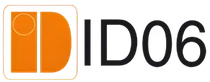
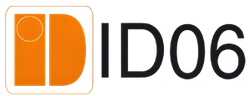
v7.2 — komplett arbete-rad, centrerad finstilt, centrerade ikoner, skarpa logotyper
1. Kvittots grundrad tillbaka med en GENERISK etikett: "Komplett arbete".
   Den var tidigare jobbets egen beskrivning ("Byte av elcentral"), som
   varierar per offert och därför är svår att mappa i CRM:et. Nu är den samma
   post för varje offert, bara beloppet byts, och "Installationstid: Express"
   blir post 2. Uppmätt: rad 1 11 900 kr, rad 2 +1 000 kr, total 12 900 kr.

2. Logotyperna exporterade om från originalkällorna i rätt upplösning:
   Elsäkerhetsverket och ID06 vid 3x renderad höjd (162x144 resp 250x96),
   Trygg-Hansa vid källans maximum 295x56 (2,3x) plus en lätt oskarp mask.
   Uppmätt täthet: 3,0x / 3,0x / 2,3x mot tidigare 1,0x för Trygg-Hansa.
   [GAP] Trygg-Hansa: källan har bara 56 px bläckhöjd och ampy.se levererar
   exakt samma fil, så 2,3x är taket utan en vektor från deras varumärkesportal.

3. Ikonerna i serviceavtalets kort centreras nu i kortets fulla höjd.
   grid-row: 1 / -1 fungerade inte: -1 löses mot det EXPLICITA rutnätet och
   .ig-item saknar grid-template-rows, så -1 blev linje 1 och ikonen
   centrerades bara i rubrikens rad (uppmätt 22-47 px för högt). span 3 löser
   det; uppmätt avvikelse nu 0,0 px vid 360, 390, 768 och 1440.

4. Finstilten i serviceavtalet är CENTRERAD. Den var vänsterställd, blev
   högerställd på ett tidigare direktiv, och ska vara central.

5. "Båda priserna är efter ROT" borttagen. Prispartkortet 139 -> 121 px.

61/61 kontroller, 0 horisontellt överflöde 320-1440.
[…]

diff --git a/r2-checkouten/index.html b/r2-checkouten/index.html
@@ -320,9 +320,9 @@
           <p class="c-eyebrow">Registrerade, försäkrade och kontrollerbara</p>
           <div class="c-row">
             <img class="logo-if" src="../assets/installatorsforetagen.svg" width="719" height="188" loading="lazy" decoding="async" alt="Installatörsföretagen">
-            <img class="logo-els" src="../assets/elsakerhetsverket.webp" width="122" height="109" loading="lazy" decoding="async" alt="Elsäkerhetsverket">
-            <img class="logo-id06" src="../assets/id06.webp" width="210" height="82" loading="lazy" decoding="async" alt="ID06">
-            <img class="logo-th" src="../assets/trygg-hansa.webp" width="106" height="24" loading="lazy" decoding="async" alt="Trygg-Hansa">
+            <img class="logo-els" src="../assets/elsakerhetsverket.webp" width="162" height="144" loading="lazy" decoding="async" alt="Elsäkerhetsverket">
+            <img class="logo-id06" src="../assets/id06.webp" width="250" height="96" loading="lazy" decoding="async" alt="ID06">
+            <img class="logo-th" src="../assets/trygg-hansa.webp" width="295" height="56" loading="lazy" decoding="async" alt="Trygg-Hansa">
           </div>
         </div>
       </section>
@@ -380,8 +380,7 @@
                 <span class="ig-f ig-f--med"><span class="ig-fl">Med avtal</span><span class="ig-fv">750 kr/tim</span></span>
                 <span class="ig-f ig-f--utan"><span class="ig-fl">Utan avtal</span><span class="ig-fv">850 kr/tim</span></span>
               </span>
-              <span class="ig-note">Båda priserna är efter ROT.</span>
-            </li>
+                    </li>
           </ul>
         </div>
 
@@ -428,9 +427,15 @@
     <section class="co-panel of-receipt" id="summering" aria-labelledby="price-h" tabindex="-1">
       <h2 class="p-cap" id="price-h">Din summering</h2>
 
-      <!-- Grundraden borttagen på ägarorder: etiketten är jobbets beskrivning och
-           varierar per offert, vilket gör den svår att mappa i CRM:et. Kvittot är
-           nu totalen plus de tillval kunden själv lagt till. -->
+      <!-- Grundraden bär en GENERISK etikett. Den var tidigare jobbets egen
+           beskrivning ("Byte av elcentral"), vilken varierar per offert och
+           därför är svår att mappa i CRM:et. "Komplett arbete" är samma post
+           för varje offert; bara beloppet byts. -->
+      <div class="r-row">
+        <span class="lbl">Komplett arbete</span>
+        <span class="dots" aria-hidden="true"></span>
+        <span class="amt">11 900 kr</span>
+      </div>
       <div class="r-row addon-row" data-tier-row>
         <span class="lbl" data-tier-label>Installationstid</span>
         <span class="dots" aria-hidden="true"></span>

diff --git a/assets/shared.css b/assets/shared.css
@@ -513,7 +513,14 @@ a { -webkit-tap-highlight-color: transparent; }
    punktlistans form och värdeankarets — kvadraten skiljer punkten från båda
    utan att lämna familjen. */
 .of-svc__ingar .ig-ico {
-  grid-column: 1; grid-row: 1 / span 2; align-self: start;
+  /* Ikonen centreras i kortets fulla höjd i stället för att toppställas vid
+     rubriken. Den hör till HELA punkten, inte bara till dess första rad.
+     span 3, inte `1 / -1`: -1 löses mot det EXPLICITA rutnätet, och eftersom
+     .ig-item saknar grid-template-rows blev -1 lika med linje 1, så ikonen
+     centrerades bara i rubrikens rad (uppmätt 22-47 px för högt). Korten har
+     som mest 3 innehållsrader; ett spann över alla ger äkta centrering, och
+     ett tomt spannsteg får höjden 0. */
+  grid-column: 1; grid-row: 1 / span 3; align-self: center;
   width: 34px; height: 34px; border-radius: var(--r-md);
   display: grid; place-items: center;
   background: var(--teal-soft); border: 1px solid rgba(0,169,145,.24);
@@ -607,11 +614,13 @@ a { -webkit-tap-highlight-color: transparent; }
 .of-svc__optin .of-addon label { background: rgba(255,255,255,.86); }
 /* max-width: serviceavtalskortet är enda stället där prosan saknade måttak.
    Uppmätt vid 1139px: 185 tecken på en enda rad (1006px textbredd). */
-/* Högerställd på ägarorder: den balanserar den vänsterställda rubrik-, pris-
-   och innehållskolumnen och läser som en avslutande not, inte som brödtext. */
+/* Centrerad på ägarorder. Den är en avslutande not om hela sektionen, inte
+   brödtext i en kolumn, och centrerad bär den den rollen utan att peka åt
+   vare sig vänster eller höger. */
 .of-svc__fine {
   margin-top: 18px; font-size: 12.5px; font-weight: 400; color: var(--faint);
-  line-height: 1.55; text-wrap: pretty; max-width: 52ch; margin-left: auto; text-align: right;
+  line-height: 1.55; text-wrap: pretty; max-width: 56ch;
+  margin-inline: auto; text-align: center;
 }
 
 /* månadsraden i summeringspanelen — UTANFÖR engångstotalen */

diff --git a/r1-dokumentet/index.html b/r1-dokumentet/index.html
@@ -283,9 +283,9 @@
         </figcaption>
       </figure>
       <div class="of-certs" aria-label="Certifieringar och partners">
-        <img src="../assets/elsakerhetsverket.webp" width="122" height="109" loading="lazy" decoding="async" alt="Elsäkerhetsverket">
-        <img src="../assets/id06.webp" width="210" height="82" loading="lazy" decoding="async" alt="ID06">
-        <img src="../assets/trygg-hansa.webp" width="106" height="24" loading="lazy" decoding="async" alt="Trygg-Hansa">
+        <img src="../assets/elsakerhetsverket.webp" width="162" height="144" loading="lazy" decoding="async" alt="Elsäkerhetsverket">
+        <img src="../assets/id06.webp" width="250" height="96" loading="lazy" decoding="async" alt="ID06">
+        <img src="../assets/trygg-hansa.webp" width="295" height="56" loading="lazy" decoding="async" alt="Trygg-Hansa">
         <img src="../assets/installatorsforetagen.svg" width="719" height="188" loading="lazy" decoding="async" alt="Installatörsföretagen">
       </div>
       <p class="of-verify">Kontrollera oss gärna själv – Ampy finns i Elsäkerhetsverkets företagsregister <a href="https://www.elsakerhetsverket.se" rel="noopener">Kolla elföretaget</a>.</p>

diff --git a/r3-genomgangen/index.html b/r3-genomgangen/index.html
@@ -335,9 +335,9 @@
         </figcaption>
       </figure>
       <div class="of-certs" aria-label="Certifieringar och partners">
-        <img src="../assets/elsakerhetsverket.webp" width="122" height="109" loading="lazy" decoding="async" alt="Elsäkerhetsverket">
-        <img src="../assets/id06.webp" width="210" height="82" loading="lazy" decoding="async" alt="ID06">
-        <img src="../assets/trygg-hansa.webp" width="106" height="24" loading="lazy" decoding="async" alt="Trygg-Hansa">
+        <img src="../assets/elsakerhetsverket.webp" width="162" height="144" loading="lazy" decoding="async" alt="Elsäkerhetsverket">
+        <img src="../assets/id06.webp" width="250" height="96" loading="lazy" decoding="async" alt="ID06">
+        <img src="../assets/trygg-hansa.webp" width="295" height="56" loading="lazy" decoding="async" alt="Trygg-Hansa">
         <img src="../assets/installatorsforetagen.svg" width="719" height="188" loading="lazy" decoding="async" alt="Installatörsföretagen">
       </div>
       <p class="of-verify">Kontrollera oss gärna själv – Ampy finns i Elsäkerhetsverkets företagsregister <a href="https://www.elsakerhetsverket.se" rel="noopener">Kolla elföretaget</a>.</p>
